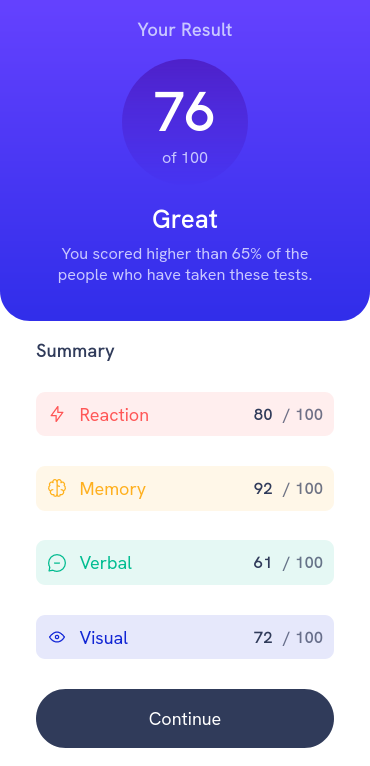
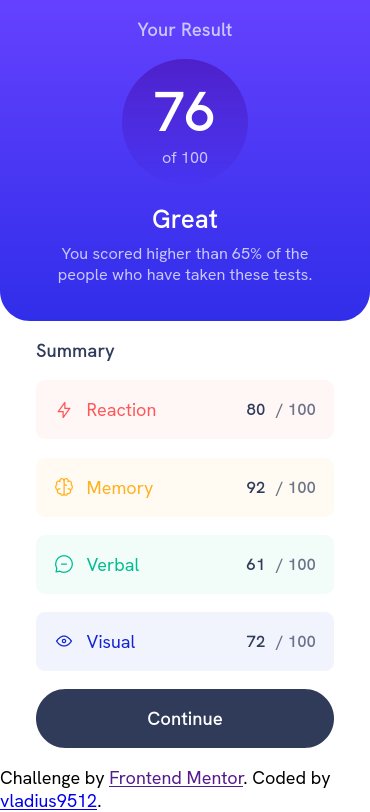
Took a last look at the desired outcome and found out that the opacity on collors wasnt enough so i changed it. Added more padding to the category containers so it looks more like the desired design. Filled in the readme and added the screenshots

diff --git a/results-summary-component-main/summary.html b/results-summary-component-main/summary.html
@@ -11,8 +11,8 @@
         <title>Frontend Mentor | Results summary component</title>
     </head>
     <body>
-        <div class="content-wrapper">
-            <nav class="topside-wrapper">
+        <main class="content-wrapper">
+            <div class="topside-wrapper">
                 <h1>Your Result</h1>
                 <div class="score-container">
                     <h2>76</h2>
@@ -25,8 +25,8 @@
                         these tests.
                     </p>
                 </div>
-            </nav>
-            <main class="summary-wrapper">
+            </div>
+            <div class="summary-wrapper">
                 <h4>Summary</h4>
                 <div class="category-container reaction">
                     <div class="image-text-container light-red">
@@ -83,17 +83,17 @@
                 <div class="button-container">
                     <button class="continue">Continue</button>
                 </div>
-            </main>
-            <footer>
-                <div class="attribution">
-                    Challenge by
-                    <a
-                        href="https://www.frontendmentor.io?ref=challenge"
-                        target="_blank"
-                        >Frontend Mentor</a
-                    >. Coded by <a href="#">vladius9512</a>.
-                </div>
-            </footer>
-        </div>
+            </div>
+        </main>
+        <footer>
+            <div class="attribution">
+                Challenge by
+                <a
+                    href="https://www.frontendmentor.io?ref=challenge"
+                    target="_blank"
+                    >Frontend Mentor</a
+                >. Coded by <a href="#">vladius9512</a>.
+            </div>
+        </footer>
     </body>
 </html>

diff --git a/results-summary-component-main/styles.css b/results-summary-component-main/styles.css
@@ -1,11 +1,11 @@
 :root {
-    --light-red: hsla(0, 100%, 67%, 0.1);
+    --light-red: hsla(0, 100%, 67%, 0.05);
     --light-red-n: hsl(0, 100%, 67%);
-    --orangey-yellow: hsla(39, 100%, 56%, 0.1);
+    --orangey-yellow: hsla(39, 100%, 56%, 0.05);
     --orangey-yellow-n: hsl(39, 100%, 56%);
-    --green-teal: hsla(166, 100%, 37%, 0.1);
+    --green-teal: hsla(166, 100%, 37%, 0.05);
     --green-teal-n: hsl(166, 100%, 37%);
-    --cobalt-blue: hsla(234, 85%, 45%, 0.1);
+    --cobalt-blue: hsla(234, 85%, 45%, 0.05);
     --cobalt-blue-n: hsl(234, 85%, 45%);
 
     --background-light-slate-blue: hsla(252, 100%, 67%, 1);
@@ -120,6 +120,7 @@ p {
     justify-content: space-between;
     align-items: center;
     border-radius: 0.5rem;
+    padding: 0.4rem;
 }
 
 .reaction {
@@ -185,6 +186,15 @@ p {
     padding: 1rem;
     border: none;
     border-radius: 2rem;
+    font-weight: 800;
+}
+
+.continue:hover {
+    background: linear-gradient(
+        var(--background-light-royal-blue-top),
+        var(--background-light-royal-blue-bottom)
+    );
+    cursor: pointer;
 }
 
 @media screen and (min-width: 720px) {
@@ -199,7 +209,10 @@ p {
         min-height: 50vh;
         max-width: 650px;
         border-radius: 2rem;
-        box-shadow: 10px 5px 5px #e8eefc;
+        box-shadow: 10px 5px 40px #e8eefc;
+    }
+    .category-container {
+        padding: 0.2rem;
     }
     .topside-wrapper {
         border-radius: 30px 30px 30px 30px;

diff --git a/results-summary-component-main/README-template.md b/results-summary-component-main/README-template.md
@@ -1,22 +1,18 @@
 # Frontend Mentor - Results summary component solution
 
-This is a solution to the [Results summary component challenge on Frontend Mentor](https://www.frontendmentor.io/challenges/results-summary-component-CE_K6s0maV). Frontend Mentor challenges help you improve your coding skills by building realistic projects. 
+This is a solution to the [Results summary component challenge on Frontend Mentor](https://www.frontendmentor.io/challenges/results-summary-component-CE_K6s0maV). Frontend Mentor challenges help you improve your coding skills by building realistic projects.
 
 ## Table of contents
 
-- [Overview](#overview)
-  - [The challenge](#the-challenge)
-  - [Screenshot](#screenshot)
-  - [Links](#links)
-- [My process](#my-process)
-  - [Built with](#built-with)
-  - [What I learned](#what-i-learned)
-  - [Continued development](#continued-development)
-  - [Useful resources](#useful-resources)
-- [Author](#author)
-- [Acknowledgments](#acknowledgments)
-
-**Note: Delete this note and update the table of contents based on what sections you keep.**
+-   [Overview](#overview)
+    -   [The challenge](#the-challenge)
+    -   [Screenshot](#screenshot)
+    -   [Links](#links)
+-   [My process](#my-process)
+    -   [Built with](#built-with)
+    -   [What I learned](#what-i-learned)
+    -   [Continued development](#continued-development)
+-   [Author](#author)
 
 ## Overview
 
@@ -24,88 +20,50 @@ This is a solution to the [Results summary component challenge on Frontend Mento
 
 Users should be able to:
 
-- View the optimal layout for the interface depending on their device's screen size
-- See hover and focus states for all interactive elements on the page
+-   View the optimal layout for the interface depending on their device's screen size
+-   See hover and focus states for all interactive elements on the page
 
 ### Screenshot
 
-![](./screenshot.jpg)
+Desktop view
+![](./screenshots/desktop.png)
 
-Add a screenshot of your solution. The easiest way to do this is to use Firefox to view your project, right-click the page and select "Take a Screenshot". You can choose either a full-height screenshot or a cropped one based on how long the page is. If it's very long, it might be best to crop it.
-
-Alternatively, you can use a tool like [FireShot](https://getfireshot.com/) to take the screenshot. FireShot has a free option, so you don't need to purchase it. 
-
-Then crop/optimize/edit your image however you like, add it to your project, and update the file path in the image above.
-
-**Note: Delete this note and the paragraphs above when you add your screenshot. If you prefer not to add a screenshot, feel free to remove this entire section.**
+Mobile View
+![](./screenshots/mobile.png)
 
 ### Links
 
-- Solution URL: [Add solution URL here](https://your-solution-url.com)
-- Live Site URL: [Add live site URL here](https://your-live-site-url.com)
+-   Solution URL: (https://github.com/vladius9512/FrontEndMentor-Challenges/tree/main/results-summary-component-main)
+-   Live Site URL: (https://vladius9512.github.io/FrontEndMentor-Challenges/results-summary-component-main/summary.html)
 
 ## My process
 
+-   I started from the mobile view of the app.
+-   Arranged the HTML in "boxes".
+-   Styled from the topside all the way to the downside of the mobile view.
+-   Then switched to desktop and made the last changes on the styling.
+
 ### Built with
 
-- Semantic HTML5 markup
-- CSS custom properties
-- Flexbox
-- CSS Grid
-- Mobile-first workflow
-- [React](https://reactjs.org/) - JS library
-- [Next.js](https://nextjs.org/) - React framework
-- [Styled Components](https://styled-components.com/) - For styles
-
-**Note: These are just examples. Delete this note and replace the list above with your own choices**
+-   Semantic HTML5 markup
+-   CSS custom properties
+-   Flexbox
+-   Mobile-first workflow
 
 ### What I learned
 
-Use this section to recap over some of your major learnings while working through this project. Writing these out and providing code samples of areas you want to highlight is a great way to reinforce your own knowledge.
-
-To see how you can add code snippets, see below:
-
-```html
-<h1>Some HTML code I'm proud of</h1>
-```
-```css
-.proud-of-this-css {
-  color: papayawhip;
-}
-```
-```js
-const proudOfThisFunc = () => {
-  console.log('🎉')
-}
-```
-
-If you want more help with writing markdown, we'd recommend checking out [The Markdown Guide](https://www.markdownguide.org/) to learn more.
-
-**Note: Delete this note and the content within this section and replace with your own learnings.**
+-   First of all, it's a nice design and I hope that I will remember this kind of arrangement for future projects.
+-   Second of all, it was kind of a challenge to get the exact colors as the design outcome.
+-   Some extra practice can never hurt you.
+-   In the past, I didn't store css values into variables, and this time I tried it and it really made me more efficient.
 
 ### Continued development
 
-Use this section to outline areas that you want to continue focusing on in future projects. These could be concepts you're still not completely comfortable with or techniques you found useful that you want to refine and perfect.
-
-**Note: Delete this note and the content within this section and replace with your own plans for continued development.**
-
-### Useful resources
-
-- [Example resource 1](https://www.example.com) - This helped me for XYZ reason. I really liked this pattern and will use it going forward.
-- [Example resource 2](https://www.example.com) - This is an amazing article which helped me finally understand XYZ. I'd recommend it to anyone still learning this concept.
-
-**Note: Delete this note and replace the list above with resources that helped you during the challenge. These could come in handy for anyone viewing your solution or for yourself when you look back on this project in the future.**
+-   I practice almost every day my algorithms on Codewars.
+-   I follow The Odin Project path and soon ill be starting the React lessons from the curriculum.
+-   I challenge myself with FronEndMentor so I get used to building stuff that has to look exactly in a way.
 
 ## Author
 
-- Website - [Add your name here](https://www.your-site.com)
-- Frontend Mentor - [@yourusername](https://www.frontendmentor.io/profile/yourusername)
-- Twitter - [@yourusername](https://www.twitter.com/yourusername)
-
-**Note: Delete this note and add/remove/edit lines above based on what links you'd like to share.**
-
-## Acknowledgments
-
-This is where you can give a hat tip to anyone who helped you out on this project. Perhaps you worked in a team or got some inspiration from someone else's solution. This is the perfect place to give them some credit.
-
-**Note: Delete this note and edit this section's content as necessary. If you completed this challenge by yourself, feel free to delete this section entirely.**
+-   Github - [vladius9512](https://github.com/vladius9512)
+-   Frontend Mentor - [@yourusername](https://www.frontendmentor.io/profile/vladius9512)
